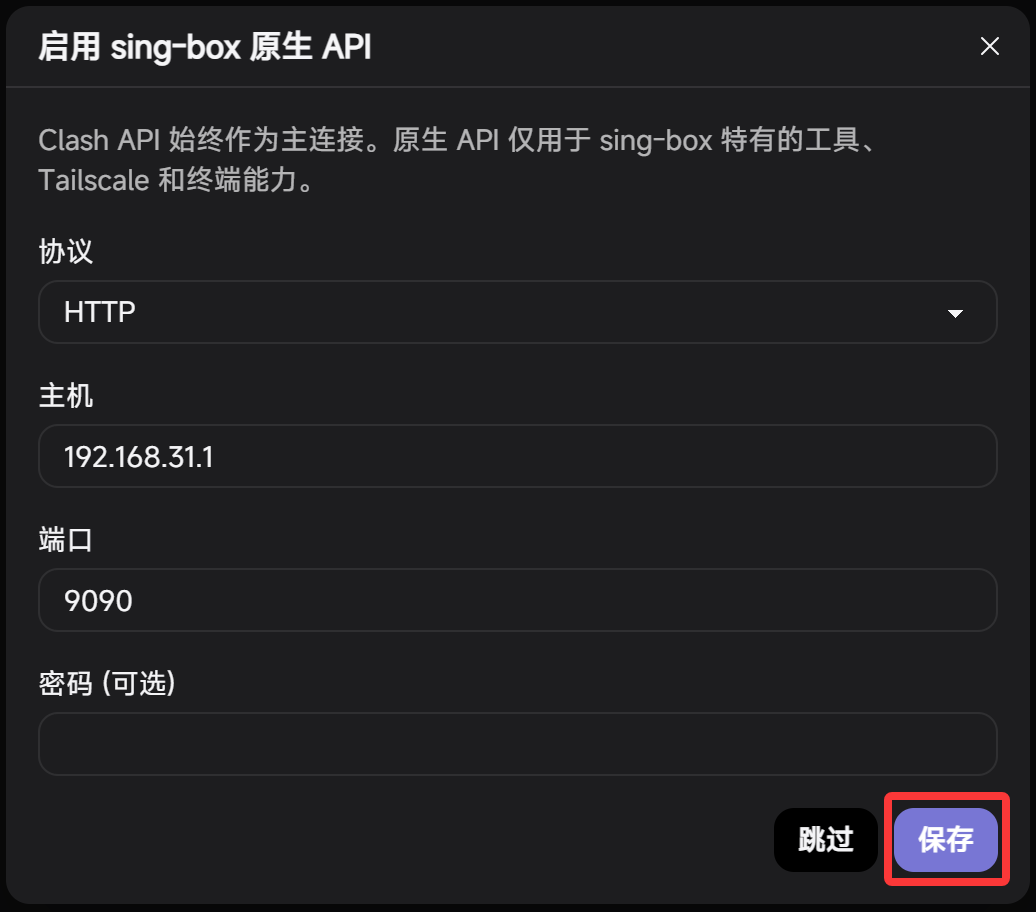
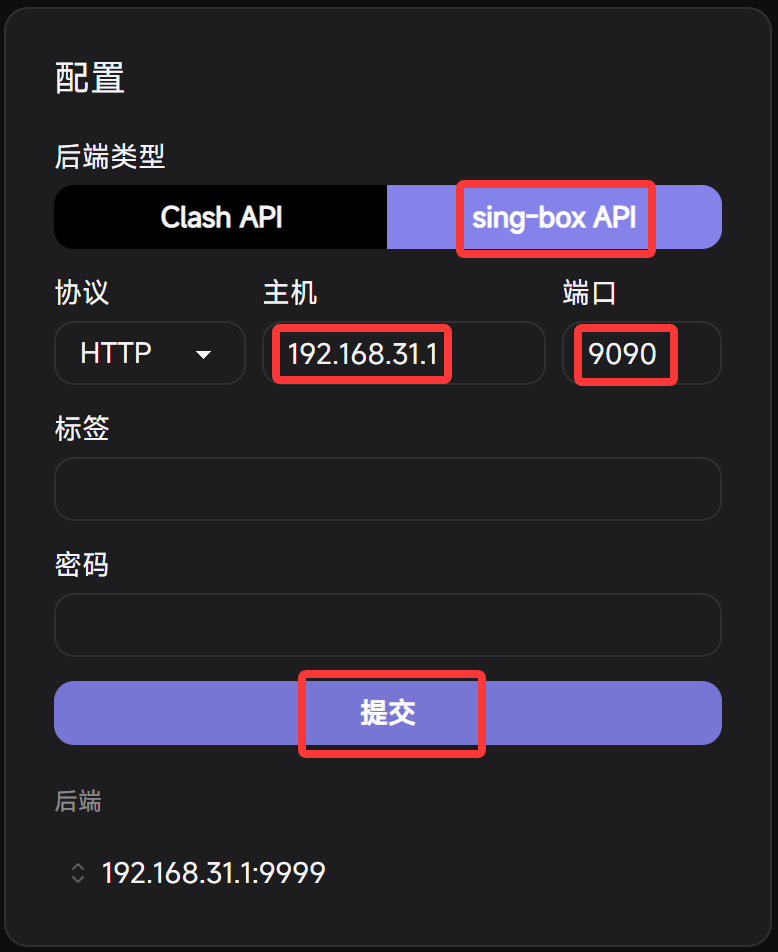
优化访问 Dashboard 面板相关配置

diff --git a/_posts/2024-08-21-pin-toolsinstall.md b/_posts/2024-08-21-pin-toolsinstall.md
@@ -72,22 +72,25 @@ curl -sS -o $CRASHDIR/CrashCore.upx -L https://ghfast.top/https://github.com/Dus
 ## 三、 安装 Dashboard 面板
 **Dashboard 面板对应文件名和网址关系如下表：**
 
-| 面板名称              | 文件名                      | 网址                                      |
-| --------------------- | --------------------------- | ----------------------------------------- |
-| Yacd-meta             | `Yacd-meta.tar.gz`          | <https://yacd.metacubex.one>              |
-| metacubexd            | `metacubexd.tar.gz`         | <https://metacubex.github.io/metacubexd/> |
-| zashboard             | `zashboard.tar.gz`          | <https://board.zash.run.place>            |
-| zashboard sing-box 版 | `zashboard-sing-box.tar.gz` | <https://board.zash.run.place>            |
-| sing-box dashboard    | `sing-box-dashboard.tar.gz` | <https://sing-box-dashboard.sagernet.org> |
+| 面板名称           | 文件名                      | 网址                                      |
+| ------------------ | --------------------------- | ----------------------------------------- |
+| Yacd-meta          | `Yacd-meta.tar.gz`          | <https://yacd.metacubex.one>              |
+| metacubexd         | `metacubexd.tar.gz`         | <https://metacubex.github.io/metacubexd/> |
+| zashboard          | `zashboard.tar.gz`          | <https://board.zash.run.place>            |
+| sing-box dashboard | `sing-box-dashboard.tar.gz` | <https://sing-box-dashboard.sagernet.org> |
 
 
 连接 SSH 后执行如下命令：
 
 ```shell
+# Yacd-meta
+curl -sS -L https://ghfast.top/https://github.com/DustinWin/proxy-tools/releases/download/Dashboard/Yacd-meta.tar.gz | tar -zx -C $CRASHDIR/ui/ && $CRASHDIR/start.sh restart
+# metacubexd
+curl -sS -L https://ghfast.top/https://github.com/DustinWin/proxy-tools/releases/download/Dashboard/metacubexd.tar.gz | tar -zx -C $CRASHDIR/ui/ && $CRASHDIR/start.sh restart
 # zashboard
 curl -sS -L https://ghfast.top/https://github.com/DustinWin/proxy-tools/releases/download/Dashboard/zashboard.tar.gz | tar -zx -C $CRASHDIR/ui/ && $CRASHDIR/start.sh restart
-# zashboard sing-box 版
-curl -sS -L https://ghfast.top/https://github.com/DustinWin/proxy-tools/releases/download/Dashboard/zashboard-sing-box.tar.gz | tar -zx -C $CRASHDIR/dashboard/ && $CRASHDIR/start.sh restart
+# sing-box dashboard
+curl -sS -L https://ghfast.top/https://github.com/DustinWin/proxy-tools/releases/download/Dashboard/sing-box-dashboard.tar.gz | tar -zx -C $CRASHDIR/ui/ && $CRASHDIR/start.sh restart
 ```
 
 - 注：若使用基于 [Chromium 项目](https://www.chromium.org/Home/)开发的浏览器打开网址去访问 Dashboard 面板时，以 [Chrome 浏览器](https://www.google.com/chrome/)为例，需要设置该网址域名“允许显示不安全内容”。方法如下：  

diff --git a/_posts/2024-08-22-toolsettings-shellcrash-singboxr-ruleset.md b/_posts/2024-08-22-toolsettings-shellcrash-singboxr-ruleset.md
@@ -53,17 +53,26 @@ curl -sS -o /tmp/CrashCore.upx -L https://ghfast.top/https://github.com/DustinWi
   - ② 进入 6) 配置文件管理 → c) 在线生成配置文件 → 6) 自定义浏览器 UA，选择“2) 不使用 UA”
   - ③ 进入 6) 配置文件管理 → 1) sing-boxr，选择“e) 在线获取此配置文件”，启动服务即可
 
-10. 访问 Dashboard 面板 <http://192.168.31.1:9090/dashboard/>，首次打开需要添加“主机”和“端口”，分别填入 `192.168.31.1` 和 `9999`，点击“提交”会弹出“启用 sing-box 原生 API”页面，直接点击“保存”，即可访问 Dashboard 面板  
-<img src="/assets/img/tools/192-9999-dashboard-singbox_1.png" alt="设置部分 2" width="60%" />  
-<img src="/assets/img/tools/192-9999-dashboard-singbox_2.png" alt="设置部分 3" width="60%" />
+10. 访问 Dashboard 面板
+  - ① 首次打开 <http://192.168.31.1:9090/dashboard/> 需要添加“主机”和“端口”，在“[Clash API](https://sing-boxr.dustinwin.us.kg/zh/configuration/experimental/clash-api/)”标签内分别填入 `192.168.31.1` 和 `9999`，点击“提交”即可访问 Dashboard 面板  
+  <img src="/assets/img/tools/192-9999-dashboard-singbox_1.png" alt="设置部分 2" width="60%" />
 
-11. 进入 Dashboard 面板 → 代理 → 代理提供者，点击“转圈”图标，可手动更新节点
+  - ② 进入Dashboard 面板 → 设置 → 后端设置，点击“+”图标，切换到“[sing-box API](https://sing-boxr.dustinwin.us.kg/zh/configuration/service/api/)”标签，“主机”内输入 `192.168.31.1`，点击“提交”  
+  <img src="/assets/img/tools/192-9999-dashboard-singbox_2.png" alt="设置部分 3" width="60%" />
+
+  - ③ 通过切换后端配置可以分别使用 Clash API（支持“代理提供商”和“规则提供商”的更新）和 sing-box API Dashboard 面板
+  - ④ 无法通过手动点击“升级面板”来更新 zashboard（默认每日自动更新）
+  - ⑤ 进入 Dashboard 面板 → 代理 → 代理提供者，点击“转圈”图标，可手动更新节点
 
 ## 四、 在线 Dashboard 面板
 在线 Dashboard 面板 [zashboard](https://github.com/Zephyruso/zashboard)，网址：<https://board.zash.run.place>
 1. 若使用基于 [Chromium 项目](https://www.chromium.org/Home/)开发的浏览器打开网址去访问 Dashboard 面板时，以 [Chrome 浏览器](https://www.google.com/chrome/)为例，需要设置该网址域名“允许显示不安全内容”，进入设置 → 隐私和安全 → 网站设置 → 更多内容设置 → 不安全内容（或者直接在地址栏打开 `chrome://settings/content/insecureContent` 进行设置），在“允许显示不安全内容”内添加网址域名 `board.zash.run.place`  
 <img src="/assets/img/tools/chrome-setting-dashboard.png" alt="在线 Dashboard 面板 1" width="60%" />
 
-2. 首次进入 <https://board.zash.run.place> 需要添加“主机”和“端口”，分别填入 `192.168.31.1` 和 `9999`，点击“提交”会弹出“启用 sing-box 原生 API”页面，直接点击“保存”，即可访问 Dashboard 面板  
-<img src="/assets/img/tools/192-9999-dashboard-singbox_1.png" alt="在线 Dashboard 面板 2" width="60%" />  
+2. 首次进入 <https://board.zash.run.place> 需要添加“主机”和“端口”，在“Clash API”标签内分别填入 `192.168.31.1` 和 `9999`，点击“提交”即可访问 Dashboard 面板  
+<img src="/assets/img/tools/192-9999-dashboard-singbox_1.png" alt="在线 Dashboard 面板 2" width="60%" />
+
+3. 进入Dashboard 面板 → 设置 → 后端设置，点击“+”图标，切换到“sing-box API”标签，“主机”内输入 `192.168.31.1`，点击“提交”  
 <img src="/assets/img/tools/192-9999-dashboard-singbox_2.png" alt="在线 Dashboard 面板 3" width="60%" />
+
+4. 通过切换后端配置可以分别使用 Clash API（支持“代理提供商”和“规则提供商”的更新）和 sing-box API Dashboard 面板

diff --git a/_posts/2024-08-21-share-android-singboxr-ruleset.md b/_posts/2024-08-21-share-android-singboxr-ruleset.md
@@ -270,7 +270,7 @@ tags: [sing-box, sing-boxr, Android, ruleset, rule_set, 分享]
       "access_control_allow_private_network": true,
       "dashboard": {
         "enabled": true,
-        "download_url": "https://github.com/Zephyruso/zashboard/archive/gh-pages-cdn-fonts-singbox-native.zip"
+        "download_url": "https://github.com/Zephyruso/zashboard/archive/gh-pages-cdn-fonts.zip"
       }
     }
   ],
@@ -280,7 +280,7 @@ tags: [sing-box, sing-boxr, Android, ruleset, rule_set, 分享]
       "store_fakeip": true
     },
     "clash_api": {
-      "external_controller": "127.0.0.1:9999",
+      "external_controller": "0.0.0.0:9999",
       "secret": "",
       "access_control_allow_private_network": true
     },
@@ -349,8 +349,8 @@ tags: [sing-box, sing-boxr, Android, ruleset, rule_set, 分享]
 {: .prompt-tip }
 
 注：
-- ① 本 `outbounds` 配置中，将不同的节点类型（如：`Shadowsocks` 和 `Trojan`）分别配置 `"type": "urltest"` 进行延迟测试（可进入 [zashboard 面板](https://github.com/Zephyruso/zashboard) → 代理 → 设置 → 管理隐藏代理组，设置隐藏以简化 Dashboard 面板中的显示）。再将延迟测试最低的策略组配置 `"type": "loadbalance"` 进行负载均衡供用户选择使用
-- ② 将不同的优选节点分别配置 `"fallback": { "enabled": true }` 进行故障转移（可进入 zashboard 面板 → 代理 → 设置 → 管理隐藏代理组，设置隐藏以简化 Dashboard 面板中的显示）。再将故障转移后的策略组配置 `"type": "urltest"` 进行延迟测试供用户选择使用
+- ① 本 `outbounds` 配置中，将不同的节点类型（如：`Shadowsocks` 和 `Trojan`）分别配置 `"type": "urltest"` 进行延迟测试（可进入 [zashboard](https://github.com/Zephyruso/zashboard) → 代理 → 设置 → 管理隐藏代理组，设置隐藏以简化 Dashboard 面板中的显示）。再将延迟测试最低的策略组配置 `"type": "loadbalance"` 进行负载均衡供用户选择使用
+- ② 将不同的优选节点分别配置 `"fallback": { "enabled": true }` 进行故障转移（可进入 zashboard → 代理 → 设置 → 管理隐藏代理组，设置隐藏以简化 Dashboard 面板中的显示）。再将故障转移后的策略组配置 `"type": "urltest"` 进行延迟测试供用户选择使用
 
 ```json
 {
@@ -383,10 +383,12 @@ tags: [sing-box, sing-boxr, Android, ruleset, rule_set, 分享]
 - 注：首次启用可能会报错，重试几次即可
 
 ## 三、 访问 Dashboard 面板
-.json 文件已配置 zashboard [sing-box](https://github.com/SagerNet/sing-box) 版  
-打开 <http://miwifi.com:9090/dashboard/> 后，“端口”输入`9999`，点击“提交”会弹出“启用 sing-box 原生 API”页面，直接点击“保存”，即可访问 Dashboard 面板
+1. 打开 <http://miwifi.com:9090/dashboard/>，在“[Clash API](https://sing-boxr.dustinwin.us.kg/zh/configuration/experimental/clash-api/)”标签的“端口”内输入 `9999`，点击“提交”即可访问 Dashboard
+2. 进入设置 → 后端设置，点击“+”图标，切换到“[sing-box API](https://sing-boxr.dustinwin.us.kg/zh/configuration/service/api/)”标签，直接点击“提交”
+3. 通过切换后端配置可以分别使用 Clash API（支持“代理提供商”和“规则提供商”的更新）和 sing-box API Dashboard 面板
+4. 无法通过手动点击“升级面板”来更新 zashboard（默认每日自动更新）
 
 > 推荐设置
 {: .prompt-tip }
-1. 进入 zashboard 面板 → 代理 → 代理设置 → 管理隐藏代理组，隐藏不必要显示的代理组
-2. 进入 zashboard 面板 → 设置 → 图标，设置“自定义图标”，可参考 [icon 文件](https://github.com/DustinWin/ruleset_geodata/releases/tag/icons)
+1. 进入 zashboard → 代理 → 代理设置 → 管理隐藏代理组，隐藏不必要显示的代理组
+2. 进入 zashboard → 设置 → 图标，设置“自定义图标”，可参考 [icon 文件](https://github.com/DustinWin/ruleset_geodata/releases/tag/icons)

diff --git a/_posts/2024-08-22-share-windows-singboxr-ruleset.md b/_posts/2024-08-22-share-windows-singboxr-ruleset.md
@@ -269,7 +269,7 @@ tags: [sing-box, sing-boxr, Windows, ruleset, rule_set, 分享]
       "access_control_allow_private_network": true,
       "dashboard": {
         "enabled": true,
-        "download_url": "https://github.com/Zephyruso/zashboard/archive/gh-pages-cdn-fonts-singbox-native.zip"
+        "download_url": "https://github.com/Zephyruso/zashboard/archive/gh-pages-cdn-fonts.zip"
       }
     }
   ],
@@ -279,7 +279,7 @@ tags: [sing-box, sing-boxr, Windows, ruleset, rule_set, 分享]
       "store_fakeip": true
     },
     "clash_api": {
-      "external_controller": "127.0.0.1:9999",
+      "external_controller": "0.0.0.0:9999",
       "secret": "",
       "access_control_allow_private_network": true
     },
@@ -347,8 +347,8 @@ tags: [sing-box, sing-boxr, Windows, ruleset, rule_set, 分享]
 {: .prompt-tip }
 
 注：
-- ① 本 `outbounds` 配置中，将不同的节点类型（如：`Shadowsocks` 和 `Trojan`）分别配置 `"type": "urltest"` 进行延迟测试（可进入 [zashboard 面板](https://github.com/Zephyruso/zashboard) → 代理 → 设置 → 管理隐藏代理组，设置隐藏以简化 Dashboard 面板中的显示）。再将延迟测试最低的策略组配置 `"type": "loadbalance"` 进行负载均衡供用户选择使用
-- ② 将不同的优选节点分别配置 `"fallback": { "enabled": true }` 进行故障转移（可进入 zashboard 面板 → 代理 → 设置 → 管理隐藏代理组，设置隐藏以简化 Dashboard 面板中的显示）。再将故障转移后的策略组配置 `"type": "urltest"` 进行延迟测试供用户选择使用
+- ① 本 `outbounds` 配置中，将不同的节点类型（如：`Shadowsocks` 和 `Trojan`）分别配置 `"type": "urltest"` 进行延迟测试（可进入 [zashboard](https://github.com/Zephyruso/zashboard) → 代理 → 设置 → 管理隐藏代理组，设置隐藏以简化 Dashboard 面板中的显示）。再将延迟测试最低的策略组配置 `"type": "loadbalance"` 进行负载均衡供用户选择使用
+- ② 将不同的优选节点分别配置 `"fallback": { "enabled": true }` 进行故障转移（可进入 zashboard → 代理 → 设置 → 管理隐藏代理组，设置隐藏以简化 Dashboard 面板中的显示）。再将故障转移后的策略组配置 `"type": "urltest"` 进行延迟测试供用户选择使用
 
 ```json
 {
@@ -640,10 +640,12 @@ Windows Registry Editor Version 5.00
   - ➌ 若想开机启动 sing-boxr，可搜索“Windows 添加任务计划”教程自行添加
 
 ## 四、 访问 Dashboard 面板
-.json 文件已配置 zashboard [sing-box](https://github.com/SagerNet/sing-box) 版  
-打开 <http://miwifi.com:9090/dashboard/> 后，“端口”输入`9999`，点击“提交”会弹出“启用 sing-box 原生 API”页面，直接点击“保存”，即可访问 Dashboard 面板
+1. 打开 <http://miwifi.com:9090/dashboard/>，在“[Clash API](https://sing-boxr.dustinwin.us.kg/zh/configuration/experimental/clash-api/)”标签的“端口”内输入 `9999`，点击“提交”即可访问 Dashboard
+2. 进入设置 → 后端设置，点击“+”图标，切换到“[sing-box API](https://sing-boxr.dustinwin.us.kg/zh/configuration/service/api/)”标签，直接点击“提交”
+3. 通过切换后端配置可以分别使用 Clash API（支持“代理提供商”和“规则提供商”的更新）和 sing-box API Dashboard 面板
+4. 无法通过手动点击“升级面板”来更新 zashboard（默认每日自动更新）
 
 > 推荐设置
 {: .prompt-tip }
-1. 进入 zashboard 面板 → 代理 → 代理设置 → 管理隐藏代理组，隐藏不必要显示的代理组
-2. 进入 zashboard 面板 → 设置 → 代理设置 → 外观 → 自定义图标，设置“组名”和“URL”，“URL”可参考 [icon 文件](https://github.com/DustinWin/ruleset_geodata/releases/tag/icons)
+1. 进入 zashboard → 代理 → 代理设置 → 管理隐藏代理组，隐藏不必要显示的代理组
+2. 进入 zashboard → 设置 → 代理设置 → 外观 → 自定义图标，设置“组名”和“URL”，“URL”可参考 [icon 文件](https://github.com/DustinWin/ruleset_geodata/releases/tag/icons)

diff --git a/_posts/2024-08-22-share-shellcrash-singboxr-ruleset.md b/_posts/2024-08-22-share-shellcrash-singboxr-ruleset.md
@@ -209,8 +209,8 @@ tags: [sing-box, sing-boxr, ShellCrash, ruleset, rule_set, 分享, Router]
 {: .prompt-tip }
 
 注：
-- ① 本 `outbounds` 配置中，将不同的节点类型（如：`Shadowsocks` 和 `Trojan`）分别配置 `"type": "urltest"` 进行延迟测试（可进入 [zashboard 面板](https://github.com/Zephyruso/zashboard) → 代理 → 设置 → 管理隐藏代理组，设置隐藏以简化 Dashboard 面板中的显示）。再将延迟测试最低的策略组配置 `"type": "loadbalance"` 进行负载均衡供用户选择使用
-- ② 将不同的优选节点分别配置 `"fallback": { "enabled": true }` 进行故障转移（可进入 zashboard 面板 → 代理 → 设置 → 管理隐藏代理组，设置隐藏以简化 Dashboard 面板中的显示）。再将故障转移后的策略组配置 `"type": "urltest"` 进行延迟测试供用户选择使用
+- ① 本 `outbounds` 配置中，将不同的节点类型（如：`Shadowsocks` 和 `Trojan`）分别配置 `"type": "urltest"` 进行延迟测试（可进入 [zashboard](https://github.com/Zephyruso/zashboard) → 代理 → 设置 → 管理隐藏代理组，设置隐藏以简化 Dashboard 面板中的显示）。再将延迟测试最低的策略组配置 `"type": "loadbalance"` 进行负载均衡供用户选择使用
+- ② 将不同的优选节点分别配置 `"fallback": { "enabled": true }` 进行故障转移（可进入 zashboard → 代理 → 设置 → 管理隐藏代理组，设置隐藏以简化 Dashboard 面板中的显示）。再将故障转移后的策略组配置 `"type": "urltest"` 进行延迟测试供用户选择使用
 
 ```json
 {
@@ -237,7 +237,7 @@ tags: [sing-box, sing-boxr, ShellCrash, ruleset, rule_set, 分享, Router]
 }
 ```
 
-## 二、 导入 [sing-box reF1nd 版内核](https://github.com/reF1nd/sing-box)和 zashboard 面板
+## 二、 导入 [sing-box reF1nd 版内核](https://github.com/reF1nd/sing-box)和 zashboard
 连接 SSH 后执行如下命令：
 
 ```shell
@@ -369,7 +369,7 @@ sc
       "access_control_allow_private_network": true,
       "dashboard": {
         "enabled": true,
-        "download_url": "https://github.com/Zephyruso/zashboard/archive/gh-pages-cdn-fonts-singbox-native.zip"
+        "download_url": "https://github.com/Zephyruso/zashboard/archive/gh-pages-cdn-fonts.zip"
       }
     }
   ]
@@ -433,9 +433,12 @@ sed -i 's/log dns ntp certificate experimental/log dns ntp certificate http_clie
 sed -i 's/log dns ntp certificate experimental/log dns ntp certificate http_clients experimental/' "$CRASHDIR/menus/override.sh"
 ```
 ## 八、 访问 Dashboard 面板
-打开 <http://miwifi.com:9090/dashboard/> 后，“主机”输入 `192.168.31.1`，“端口”输入 `9999`，点击“提交”会弹出“启用 sing-box 原生 API”页面，直接点击“保存”，即可访问 Dashboard 面板
+1. 打开 <http://miwifi.com:9090/dashboard/>，在“[Clash API](https://sing-boxr.dustinwin.us.kg/zh/configuration/experimental/clash-api/)”标签的“主机”内输入 `192.168.31.1`，“端口”内输入 `9999`，点击“提交”即可访问 Dashboard
+2. 进入设置 → 后端设置，点击“+”图标，切换到“[sing-box API](https://sing-boxr.dustinwin.us.kg/zh/configuration/service/api/)”标签，“主机”内输入 `192.168.31.1`，点击“提交”
+3. 通过切换后端配置可以分别使用 Clash API（支持“代理提供商”和“规则提供商”的更新）和 sing-box API Dashboard 面板
+4. 无法通过手动点击“升级面板”来更新 zashboard（默认每日自动更新）
 
 > 推荐设置
 {: .prompt-tip }
-1. 进入 zashboard 面板 → 代理 → 代理设置 → 管理隐藏代理组，隐藏不必要显示的代理组
-2. 进入 zashboard 面板 → 设置 → 代理设置 → 外观 → 自定义图标，设置“组名”和“URL”，“URL”可参考 [icon 文件](https://github.com/DustinWin/ruleset_geodata/releases/tag/icons)
+1. 进入 zashboard → 代理 → 代理设置 → 管理隐藏代理组，隐藏不必要显示的代理组
+2. 进入 zashboard → 设置 → 代理设置 → 外观 → 自定义图标，设置“组名”和“URL”，“URL”可参考 [icon 文件](https://github.com/DustinWin/ruleset_geodata/releases/tag/icons)

diff --git a/_posts/2024-08-22-share-shellcrashadguardhome-singboxr-ruleset.md b/_posts/2024-08-22-share-shellcrashadguardhome-singboxr-ruleset.md
@@ -211,8 +211,8 @@ tags: [sing-box, sing-boxr, ShellCrash, AdGuard Home, ruleset, rule_set, 分享,
 {: .prompt-tip }
 
 注：
-- ① 本 `outbounds` 配置中，将不同的节点类型（如：`Shadowsocks` 和 `Trojan`）分别配置 `"type": "urltest"` 进行延迟测试（可进入 [zashboard 面板](https://github.com/Zephyruso/zashboard) → 代理 → 设置 → 管理隐藏代理组，设置隐藏以简化 Dashboard 面板中的显示）。再将延迟测试最低的策略组配置 `"type": "loadbalance"` 进行负载均衡供用户选择使用
-- ② 将不同的优选节点分别配置 `"fallback": { "enabled": true }` 进行故障转移（可进入 zashboard 面板 → 代理 → 设置 → 管理隐藏代理组，设置隐藏以简化 Dashboard 面板中的显示）。再将故障转移后的策略组配置 `"type": "urltest"` 进行延迟测试供用户选择使用
+- ① 本 `outbounds` 配置中，将不同的节点类型（如：`Shadowsocks` 和 `Trojan`）分别配置 `"type": "urltest"` 进行延迟测试（可进入 [zashboard](https://github.com/Zephyruso/zashboard) → 代理 → 设置 → 管理隐藏代理组，设置隐藏以简化 Dashboard 面板中的显示）。再将延迟测试最低的策略组配置 `"type": "loadbalance"` 进行负载均衡供用户选择使用
+- ② 将不同的优选节点分别配置 `"fallback": { "enabled": true }` 进行故障转移（可进入 zashboard → 代理 → 设置 → 管理隐藏代理组，设置隐藏以简化 Dashboard 面板中的显示）。再将故障转移后的策略组配置 `"type": "urltest"` 进行延迟测试供用户选择使用
 
 ```json
 {
@@ -239,7 +239,7 @@ tags: [sing-box, sing-boxr, ShellCrash, AdGuard Home, ruleset, rule_set, 分享,
 }
 ```
 
-## 二、 导入 [sing-box reF1nd 版内核](https://github.com/reF1nd/sing-box)、zashboard 面板和 CN_IP 文件
+## 二、 导入 [sing-box reF1nd 版内核](https://github.com/reF1nd/sing-box)、zashboard和 CN_IP 文件
 连接 SSH 后执行如下命令：
 
 ```shell
@@ -374,7 +374,7 @@ sc
       "access_control_allow_private_network": true,
       "dashboard": {
         "enabled": true,
-        "download_url": "https://github.com/Zephyruso/zashboard/archive/gh-pages-cdn-fonts-singbox-native.zip"
+        "download_url": "https://github.com/Zephyruso/zashboard/archive/gh-pages-cdn-fonts.zip"
       }
     }
   ]
@@ -470,9 +470,12 @@ EOF
 设置可参考《[全网最详细的解锁 SSH ShellCrash 搭载 sing-boxr 内核搭配 AdGuard Home 安装和配置教程/AdGuard Home 配置](https://proxy-tutorials.dustinwin.us.kg/posts/pin-shellcrashadguardhome-singboxr/#2-adguard-home-%E9%85%8D%E7%BD%AE)》
 
 ## 九、 访问 Dashboard 面板
-打开 <http://miwifi.com:9090/dashboard/> 后，“主机”输入 `192.168.31.1`，“端口”输入 `9999`，点击“提交”会弹出“启用 sing-box 原生 API”页面，直接点击“保存”，即可访问 Dashboard 面板
+1. 打开 <http://miwifi.com:9090/dashboard/>，在“[Clash API](https://sing-boxr.dustinwin.us.kg/zh/configuration/experimental/clash-api/)”标签的“主机”内输入 `192.168.31.1`，“端口”内输入 `9999`，点击“提交”即可访问 Dashboard
+2. 进入设置 → 后端设置，点击“+”图标，切换到“[sing-box API](https://sing-boxr.dustinwin.us.kg/zh/configuration/service/api/)”标签，“主机”内输入 `192.168.31.1`，点击“提交”
+3. 通过切换后端配置可以分别使用 Clash API（支持“代理提供商”和“规则提供商”的更新）和 sing-box API Dashboard 面板
+4. 无法通过手动点击“升级面板”来更新 zashboard（默认每日自动更新）
 
 > 推荐设置
 {: .prompt-tip }
-1. 进入 zashboard 面板 → 代理 → 代理设置 → 管理隐藏代理组，隐藏不必要显示的代理组
-2. 进入 zashboard 面板 → 设置 → 代理设置 → 外观 → 自定义图标，设置“组名”和“URL”，“URL”可参考 [icon 文件](https://github.com/DustinWin/ruleset_geodata/releases/tag/icons)
+1. 进入 zashboard → 代理 → 代理设置 → 管理隐藏代理组，隐藏不必要显示的代理组
+2. 进入 zashboard → 设置 → 代理设置 → 外观 → 自定义图标，设置“组名”和“URL”，“URL”可参考 [icon 文件](https://github.com/DustinWin/ruleset_geodata/releases/tag/icons)

diff --git a/_posts/2024-08-21-toolsettings-shellcrash-mihomo-geodata.md b/_posts/2024-08-21-toolsettings-shellcrash-mihomo-geodata.md
@@ -62,10 +62,11 @@ curl -sS -o $CRASHDIR/Country.mmdb -L https://cdn.jsdelivr.net/gh/DustinWin/rule
   - ② 进入 6) 配置文件管理 → c) 在线生成配置文件 → 6) 自定义浏览器 UA，选择“2) 不使用 UA”
   - ③ 进入 6) 配置文件管理 → 1) mihomo，选择“e) 在线获取此配置文件”，启动服务即可
 
-10. 访问 Dashboard 面板 <http://192.168.31.1:9999/ui/>，首次打开需要添加“主机”和“端口”，分别填入 `192.168.31.1` 和 `9999` 并点击“添加”即可  
-<img src="/assets/img/tools/192-9999-dashboard.png" alt="设置部分 2" width="60%" />
+10. 访问 Dashboard 面板
+  - ① 首次打开 <http://192.168.31.1:9999/ui/> 需要添加“主机”和“端口”，分别填入 `192.168.31.1` 和 `9999` 并点击“提交”即可  
+  <img src="/assets/img/tools/192-9999-dashboard.png" alt="设置部分 2" width="60%" />
 
-11. 进入 Dashboard 面板 → 代理 → 代理提供者，点击“转圈”图标，可手动更新节点
+  - ② 进入 Dashboard 面板 → 代理 → 代理提供者，点击“转圈”图标，可手动更新节点
 
 ## 五、 在线 Dashboard 面板
 在线 Dashboard 面板 [zashboard](https://github.com/Zephyruso/zashboard)，网址：<https://board.zash.run.place>

diff --git a/_posts/2024-08-21-toolsettings-shellcrash-mihomo-ruleset.md b/_posts/2024-08-21-toolsettings-shellcrash-mihomo-ruleset.md
@@ -53,10 +53,11 @@ curl -sS -o /tmp/CrashCore.upx -L https://ghfast.top/https://github.com/DustinWi
   - ② 进入 6) 配置文件管理 → c) 在线生成配置文件 → 6) 自定义浏览器 UA，选择“2) 不使用 UA”
   - ③ 进入 6) 配置文件管理 → 1) mihomo，选择“e) 在线获取此配置文件”，启动服务即可
 
-10. 访问 Dashboard 面板 <http://192.168.31.1:9999/ui/>，首次打开需要添加“主机”和“端口”，分别填入 `192.168.31.1` 和 `9999` 并点击“添加”即可  
-<img src="/assets/img/tools/192-9999-dashboard.png" alt="设置部分 2" width="60%" />
+10. 访问 Dashboard 面板
+  - ① 首次打开 <http://192.168.31.1:9999/ui/> 需要添加“主机”和“端口”，分别填入 `192.168.31.1` 和 `9999` 并点击“提交”即可  
+  <img src="/assets/img/tools/192-9999-dashboard.png" alt="设置部分 2" width="60%" />
 
-1.  进入 Dashboard 面板 → 代理 → 代理提供者，点击“转圈”图标，可手动更新节点
+  - ② 进入 Dashboard 面板 → 代理 → 代理提供者，点击“转圈”图标，可手动更新节点
 
 ## 四、 在线 Dashboard 面板
 在线 Dashboard 面板 [zashboard](https://github.com/Zephyruso/zashboard)，网址：<https://board.zash.run.place>

diff --git a/_posts/2024-08-21-share-android-mihomo-ruleset.md b/_posts/2024-08-21-share-android-mihomo-ruleset.md
@@ -44,7 +44,7 @@ allow-lan: true
 mixed-port: 7890
 unified-delay: true
 tcp-concurrent: true
-external-controller: 127.0.0.1:9999
+external-controller: 0.0.0.0:9999
 profile: {store-selected: true, store-fake-ip: true}
 
 sniffer:
@@ -374,4 +374,4 @@ proxy-groups:
 1. 进入 [Clash Mi for Android](https://github.com/KaringX/clashmi) → “+”图标 → 添加配置链接，“配置链接/内容”输入《[一](https://proxy-tutorials.dustinwin.us.kg/posts/share-android-mihomo-ruleset/#%E4%B8%80-%E7%94%9F%E6%88%90%E9%85%8D%E7%BD%AE%E6%96%87%E4%BB%B6-yaml-%E6%96%87%E4%BB%B6%E7%9B%B4%E9%93%BE)》中生成的配置文件 .yaml 直链，点击“✓”
 2. 待配置下载完成后返回到主界面，进入核心设置，关闭所有配置项的覆写功能
 3. 再次返回到主界面，点击“未连接”右边的灰色按钮即可启动服务
-4. 待服务启动成功后可直接点击“面板”来使用 [zashboard 面板](https://github.com/Zephyruso/zashboard)
+4. 待服务启动成功后可直接点击“面板”来使用 [zashboard](https://github.com/Zephyruso/zashboard)

diff --git a/_posts/2024-08-21-share-shellcrash-mihomo-geodata.md b/_posts/2024-08-21-share-shellcrash-mihomo-geodata.md
@@ -131,7 +131,7 @@ proxy-groups:
 
 ---
 
-## 二、 导入 [mihomo 内核](https://github.com/MetaCubeX/mihomo)和 [zashboard 面板](https://github.com/Zephyruso/zashboard)
+## 二、 导入 [mihomo 内核](https://github.com/MetaCubeX/mihomo)和 [zashboard](https://github.com/Zephyruso/zashboard)
 连接 SSH 后执行如下命令：
 
 ```shell

diff --git a/_posts/2024-08-21-share-shellcrash-mihomo-ruleset.md b/_posts/2024-08-21-share-shellcrash-mihomo-ruleset.md
@@ -251,7 +251,7 @@ proxy-groups:
 
 ---
 
-## 二、 导入 [mihomo 内核](https://github.com/MetaCubeX/mihomo)和 [zashboard 面板](https://github.com/Zephyruso/zashboard)
+## 二、 导入 [mihomo 内核](https://github.com/MetaCubeX/mihomo)和 [zashboard](https://github.com/Zephyruso/zashboard)
 连接 SSH 后执行如下命令：
 
 ```shell

diff --git a/_posts/2024-08-21-share-shellcrashadguardhome-mihomo-ruleset.md b/_posts/2024-08-21-share-shellcrashadguardhome-mihomo-ruleset.md
@@ -252,7 +252,7 @@ proxy-groups:
   - {name: CF 优选节点, type: fallback, use: [🆓 免费订阅], filter: "(?i)(cfip)", hidden: true, icon: "https://github.com/DustinWin/ruleset_geodata/releases/download/icons/cfip.png"}
 ```
 
-## 二、 导入 [mihomo 内核](https://github.com/MetaCubeX/mihomo)、[zashboard 面板](https://github.com/Zephyruso/zashboard)和 CN_IP 文件
+## 二、 导入 [mihomo 内核](https://github.com/MetaCubeX/mihomo)、[zashboard](https://github.com/Zephyruso/zashboard)和 CN_IP 文件
 连接 SSH 后执行如下命令：
 
 ```shell